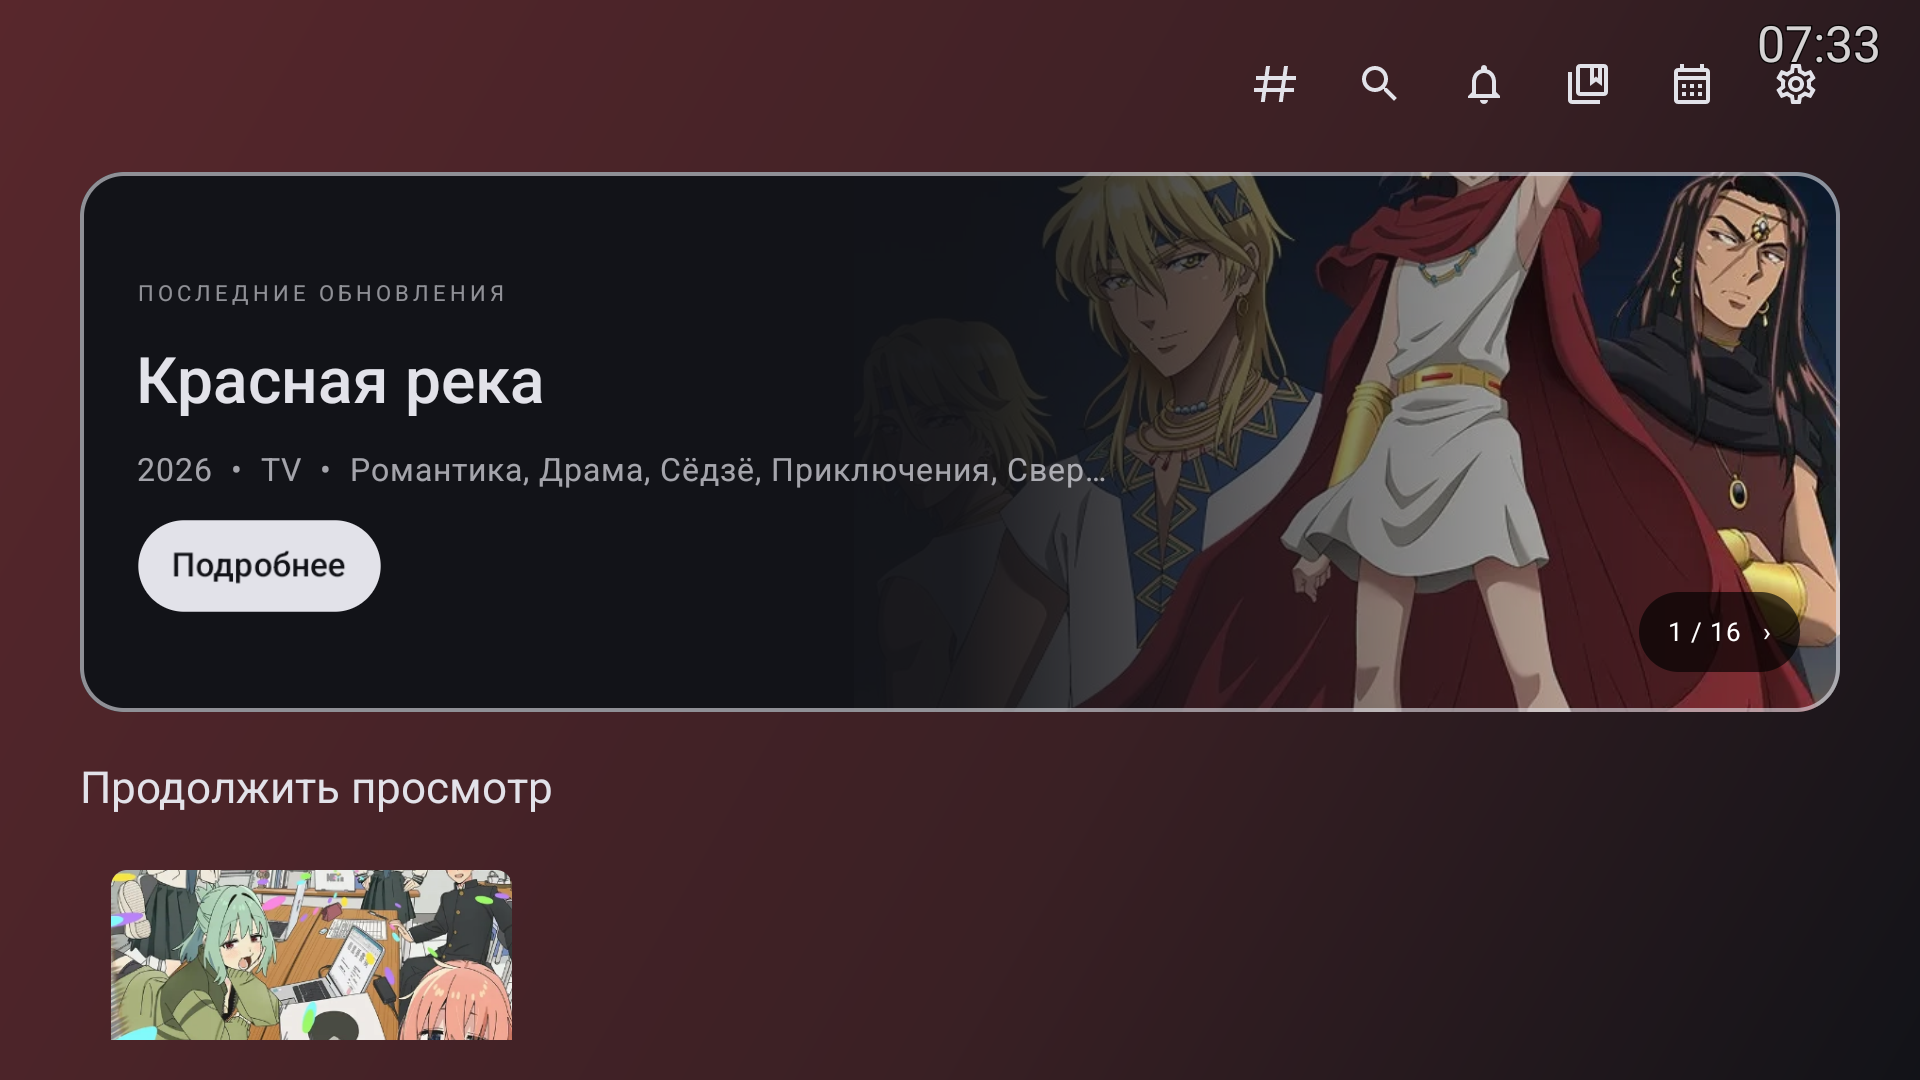
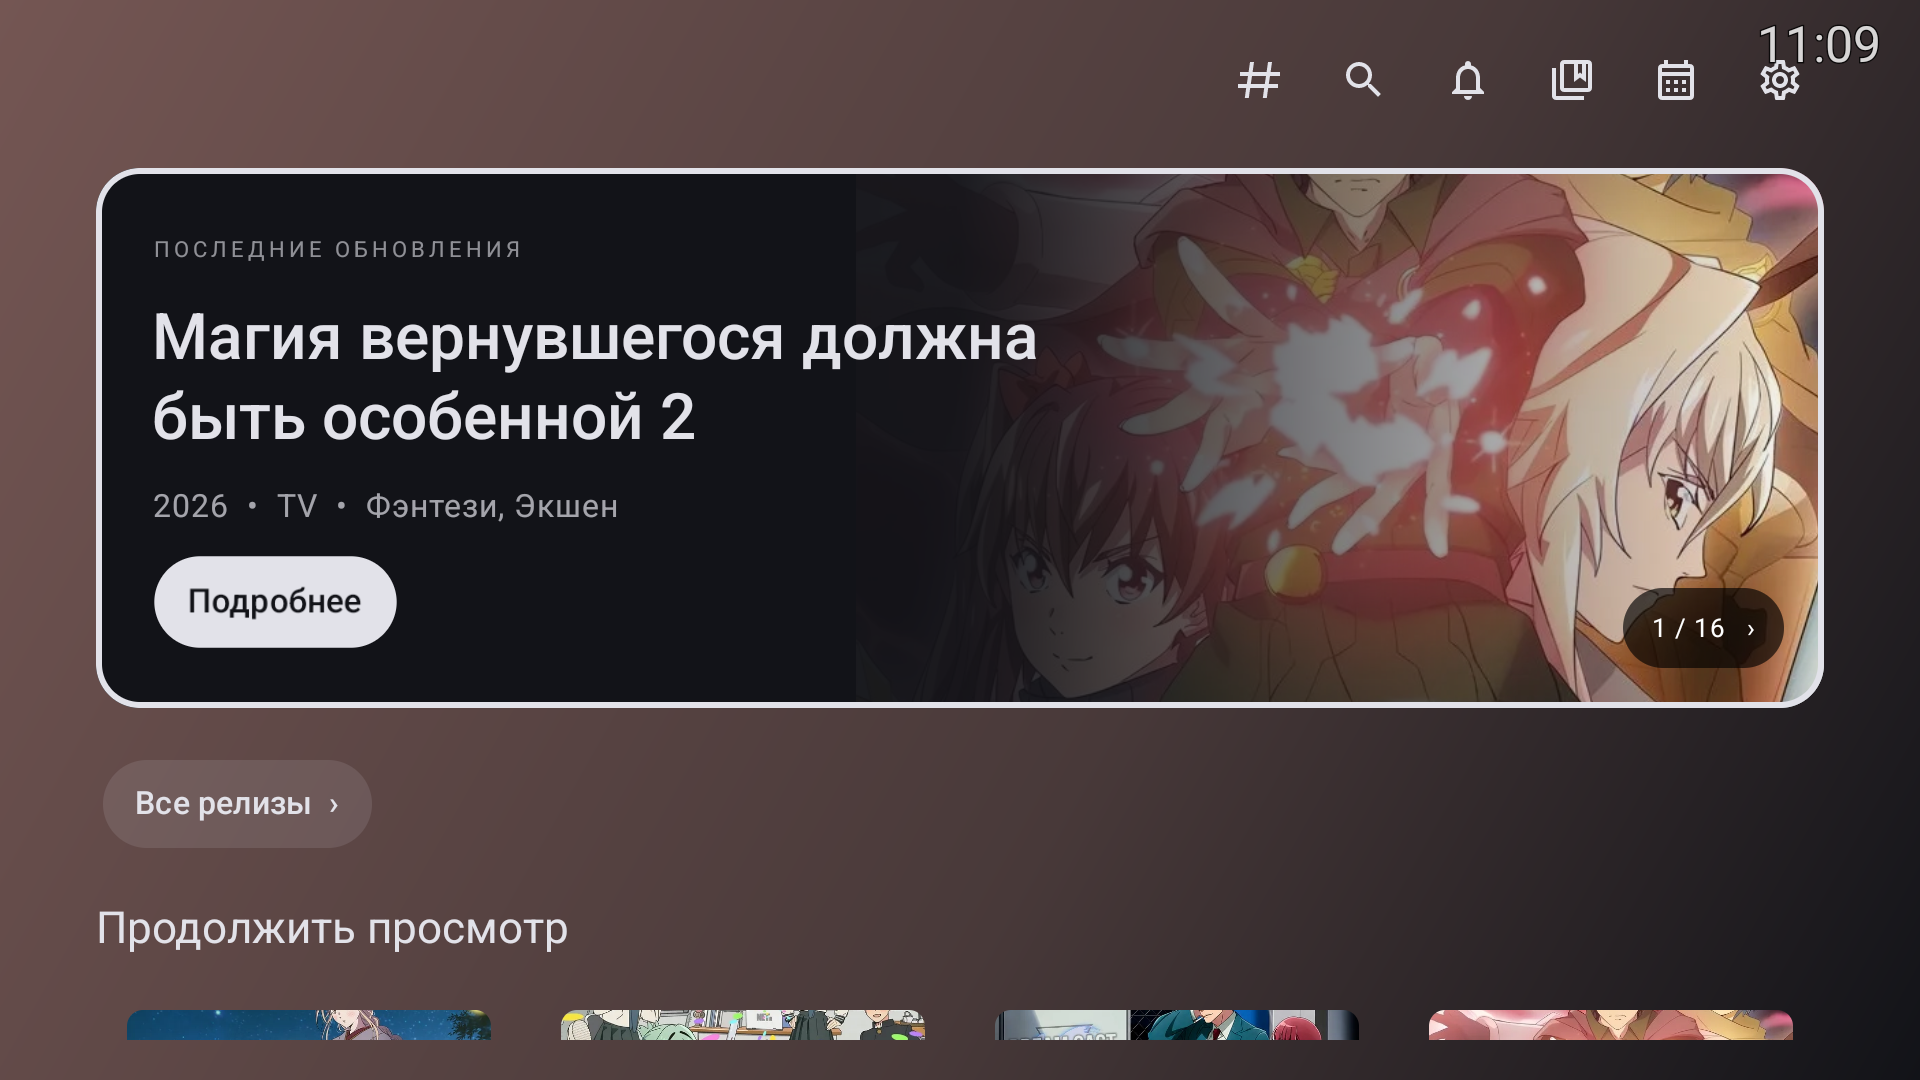
docs: add release notes for v0.9.7 and retake the README screenshots
- docs/release-notes/RELEASE_NOTES_v0.9.7.md: the release workflow
  takes 0.9.7 next and stops without this file. It covers the home
  rows, poster titles, progress and labels, faster dav1d seeks, the
  quality and genre menus, memory savings and what was checked on the
  Streamer and the Cosmos.
- README: v0.9.7 is the latest release, with a short "Что нового".
- Screenshots: all 19 retaken on the Google TV Streamer with the
  current UI (14 November 2026), plus 07-home-rows.png for the new home
  rows. Captions describe the new behaviour; the note under the
  section says the corner clock is drawn by the TV, not the app.

diff --git a/docs/release-notes/RELEASE_NOTES_v0.9.7.md b/docs/release-notes/RELEASE_NOTES_v0.9.7.md
@@ -1,0 +1,72 @@
+# Dream Cast TV v0.9.7
+
+Единый нативный APK для Android TV и Google TV на Kotlin и Jetpack Compose.
+Версия — `0.9.7`, Android versionCode — `907001`. Поддерживаются ARMv7 и ARM64,
+минимальная версия Android — 6.0 (API 23).
+
+## Главная и внешний вид
+
+- **Новые ряды на главной.** Под баннером сразу кнопка «Все релизы», ниже
+  «Продолжить просмотр», «Новые серии» (непрочитанные уведомления), «Смотрю» из
+  библиотеки и расписание на сегодня (или на ближайший день с релизами).
+- **Карточки помещаются целиком.** В рядах главной ширина карточек подобрана
+  под экран: четыре широкие или пять постеров, крайняя справа больше не
+  обрезается.
+- **Прогресс и метка «Новая серия» на постерах.** Тонкая полоска внизу обложки
+  показывает, сколько просмотрено из начатой серии; у тайтлов с непрочитанным
+  уведомлением — метка «Новая серия». Работает в каталоге, библиотеке,
+  расписании и на главной.
+- **Названия в две строки.** Раньше большинство названий обрезалось после
+  первой строки. Если название не помещается и в две, у карточки в фокусе оно
+  прокручивается бегущей строкой.
+- **Страница релиза.** Название больше не повторяется дважды. Описание
+  показывает пять строк, а целиком — когда на него перейти кнопкой «вниз».
+- **Поля и меню.** Поля по краям экрана выровнены, значки верхнего меню
+  стоят вровень с правым краем карточек, сверху меньше пустого места.
+- **Фильтр жанров** показывает число релизов в каждом жанре и скрывает
+  пустые жанры. Счётчики обновляются раз в сутки, по три запроса одновременно.
+
+## Плеер
+
+- **Быстрая перемотка на слабых приставках.** С программным декодером AV1
+  (dav1d) перемотка встаёт на ближайший ключевой кадр в нужную сторону:
+  на Cosmos первый кадр после перемотки появляется за 0,14–0,28 с вместо
+  0,9–4,4 с. Позиция отличается от выбранной не больше чем на 5 секунд.
+  С аппаратным декодером перемотка по-прежнему точная.
+- **Меню качества** показывает только разрешения, которые есть у потока.
+- **Превью перемотки** загружается заранее, и сама перемотка с превью
+  не создаёт новых копий кадров.
+- **Меньше памяти на приставках с малым объёмом ОЗУ.** Буфер видео там
+  ограничен 15–30 секундами и 32 МБ; на Cosmos это около 17 МБ экономии без
+  новых остановок на подгрузку.
+- Видео загружается через те же сетевые подключения, что и остальное
+  приложение.
+
+## Производительность
+
+- Обложки на приставках с малым объёмом ОЗУ хранятся компактнее, дисковый кэш
+  обложек ограничен 192 МБ.
+- Меньше лишних выделений памяти: цвет фона по обложке, рамка фокуса,
+  обновление панели плеера на паузе, разбор страниц сайта.
+- Baseline Profile пересобран под новый код.
+
+## Для разработки
+
+- Удалён код для старых настроек Flutter: перенос данных с 0.8.x давно не
+  поддерживается.
+- Убран мёртвый код плеера, предел 720p для dav1d вынесен в одну константу.
+- Обновлены инструментальный тест плеера, скрипт `scripts/tv_smoke.ps1` и
+  сценарий Baseline Profile под новую главную.
+- Замеры на телевизорах — в `docs/TV_PLAYBACK_CHECKS_2026-11-14_RU.md`.
+
+## Установка и совместимость
+
+Файл выпуска — `DreamCast-TV-v0.9.7-unified-release.apk`; рядом публикуется
+контрольная сумма SHA-256. Версии 0.9.5 и 0.9.6 предложат обновиться сами.
+Подпись та же, данные сохраняются. Переход с 0.8.x и более ранних версий
+по-прежнему требует чистой установки.
+
+Проверено на Google TV Streamer (Android 14, аппаратный AV1) и Cosmos
+(Android 11, ARMv7, dav1d): главная, каталог, страница релиза, поиск,
+библиотека, расписание, плеер, перемотка и меню настроек. Остальное покрыто
+unit-тестами, lint и аудитом минифицированного APK.
